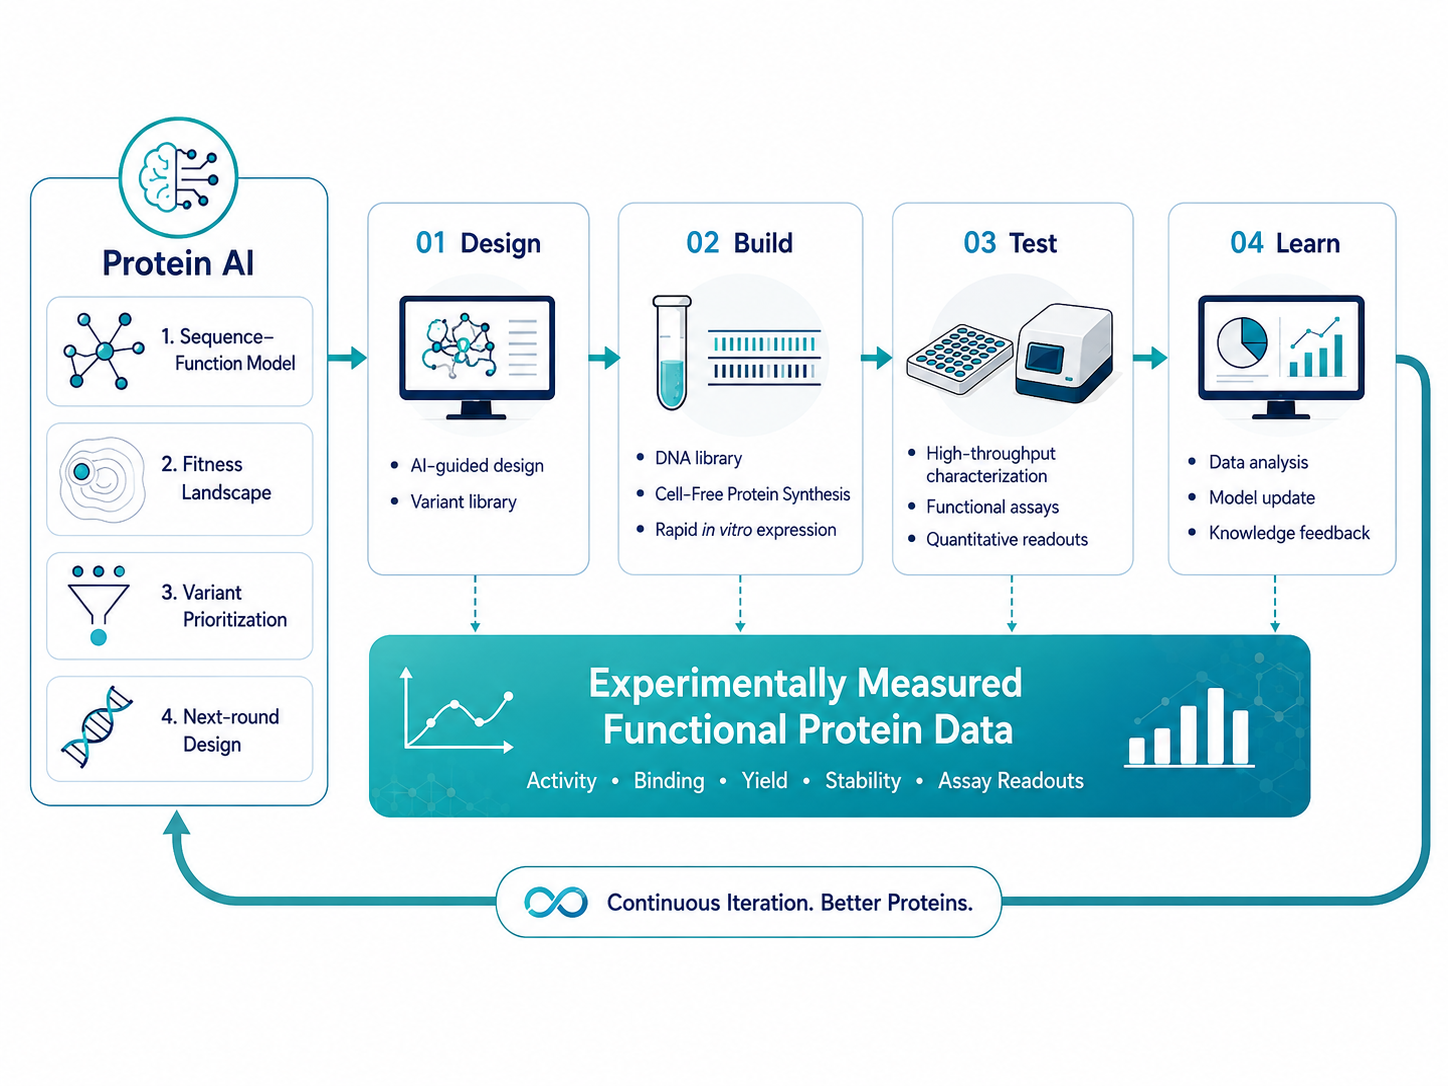
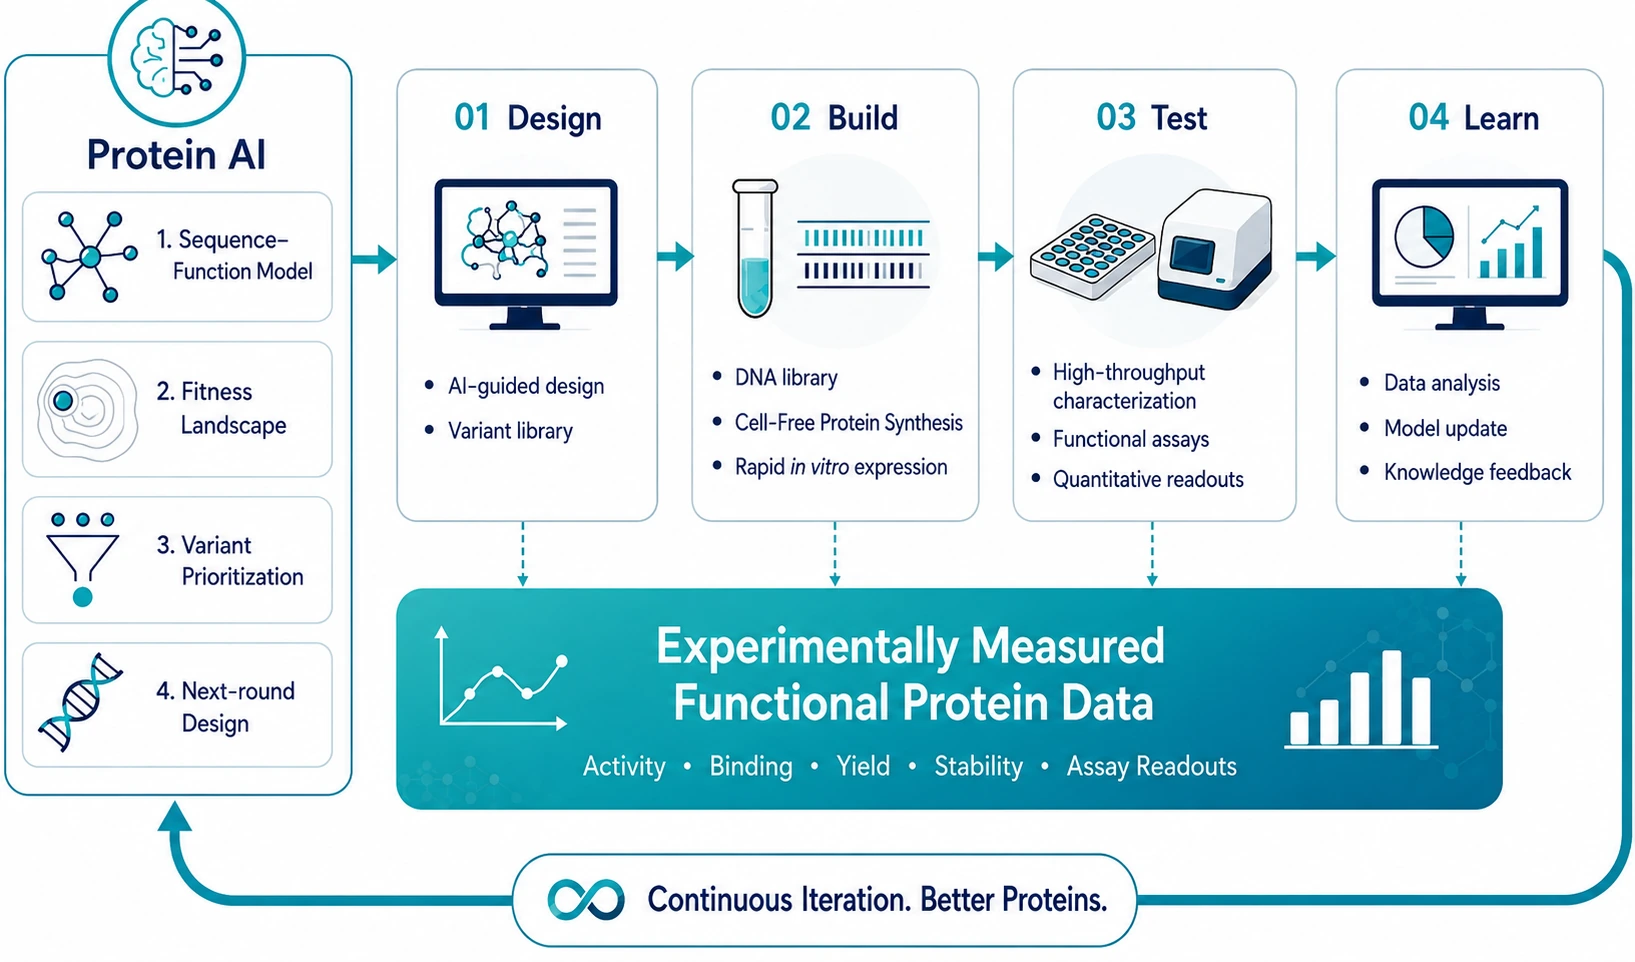
Add files via upload

diff --git a/index.html b/index.html
@@ -4,20 +4,33 @@
 <head>
 <meta charset="utf-8"/>
 <meta content="width=device-width,initial-scale=1,viewport-fit=cover" name="viewport"/>
-<title>ZerothBIO | Autonomous Protein Engineering System</title>
+<title>ZerothBIO | Autonomous Protein Engineering</title>
 <meta content="ZerothBIO builds experimentally measured functional protein data for protein AI through ProPEL, connecting protein design, cell-free production, functional measurement and learning." name="description"/>
 <meta content="index,follow,max-image-preview:large" name="robots"/>
 <meta content="strict-origin-when-cross-origin" name="referrer"/>
-<meta content="ZerothBIO — Building an AI-driven Protein Engineering System" property="og:title"/>
+<meta content="ZerothBIO — Building an Autonomous Protein Engineering System" property="og:title"/>
 <meta content="Experimentally measured functional protein data for protein AI, connected through ProPEL." property="og:description"/>
 <meta content="website" property="og:type"/>
-<meta content="https://www.zerothbio.com/" property="og:url"/><meta content="https://www.zerothbio.com/assets/propel-closed-loop-protein-engineering-system.png" property="og:image"/><meta content="1666" property="og:image:width"/><meta content="944" property="og:image:height"/><meta content="ProPEL closed-loop protein engineering system connecting design, build, test and learn around experimentally measured functional protein data." property="og:image:alt"/>
+<meta content="https://www.zerothbio.com/" property="og:url"/><meta content="https://www.zerothbio.com/assets/propel-closed-loop-protein-engineering-system.png" property="og:image"/><meta content="1635" property="og:image:width"/><meta content="962" property="og:image:height"/><meta content="ProPEL closed-loop protein engineering system connecting design, build, test and learn around experimentally measured functional protein data." property="og:image:alt"/>
 <meta content="#FFFFFF" name="theme-color"/>
 <meta content="light" name="color-scheme"/>
 <link href="https://www.zerothbio.com/" rel="canonical"/>
+<link as="image" href="assets/propel-closed-loop-protein-engineering-system.webp" rel="preload" type="image/webp"/>
 <link href="styles.css" rel="stylesheet"/>
 </head>
 <body>
+
+<!--
+  ZBIO-BRD-WEB-SITE-001
+  ZerothBIO Corporate Website Master v1.0 / Controlled Release — GitHub Pages Deployment Build
+  Deployment build: 2026-08-13
+  Copy authority: ZBIO-BRD-WEB-COPY-001 v1.0
+  Messaging authority: ZBIO-BRD-MSG-001 v1.0
+  Source authority: ZBIO-GOV-SRC-001 v1.5
+  Typography authority: ZBIO-BRD-TYPE-001 v1.0
+  Visual authority: ZBIO-BRD-001-PUB v1.0 + ZBIO-BRD-COLOR-001 v1.1
+-->
+
 <a class="skip-link" href="#main">Skip to content</a>
 <header class="site-header" id="top">
 <div class="container header-inner">
@@ -52,8 +65,8 @@
 <section aria-labelledby="hero-title" class="hero section">
 <div class="container hero-grid">
 <div class="hero-copy reveal">
-<p class="eyebrow" data-en="AUTONOMOUS PROTEIN ENGINEERING" data-ko="AUTONOMOUS PROTEIN ENGINEERING">AI-driven PROTEIN ENGINEERING</p>
-<h1 data-en="Building an AI-driven Protein Engineering System" data-ko="AI 자율 단백질 엔지니어링 시스템을 구축합니다" id="hero-title">Building an Autonomous Protein Engineering System</h1>
+<p class="eyebrow" data-en="AUTONOMOUS PROTEIN ENGINEERING" data-ko="AUTONOMOUS PROTEIN ENGINEERING">AUTONOMOUS PROTEIN ENGINEERING</p>
+<h1 data-en="Building an Autonomous Protein Engineering System" data-ko="자율 단백질 엔지니어링 시스템을 구축합니다" id="hero-title">Building an Autonomous Protein Engineering System</h1>
 <p class="hero-deck" data-en="ZerothBIO builds experimentally measured functional protein data for protein AI through ProPEL." data-ko="ZerothBIO는 자동화된 단백질 실험을 통해 측정된 기능 데이터를 생성하고, 이를 AI 학습과 단백질 최적화로 연결합니다.">ZerothBIO builds experimentally measured functional protein data for protein AI through ProPEL.</p>
 <div class="hero-actions">
 <a class="button" href="#propel"><span data-en="Explore ProPEL" data-ko="ProPEL 살펴보기">Explore ProPEL</span><span aria-hidden="true">↘</span></a>
@@ -62,42 +75,12 @@
 </div>
 <p class="tagline">Before the First, There’s Zeroth.</p>
 </div>
-<div aria-label="Compact ProPEL loop: Design, Build, Test and Learn centered on measured function" class="hero-system reveal">
+<div aria-label="ProPEL closed-loop protein engineering workflow" class="hero-system hero-system-image reveal">
 <div class="system-caption"><span class="mono">ProPEL</span><span>PROtein AI &amp; Precise Experimental Labs</span></div>
-<div class="system-stage">
-<div aria-hidden="true" class="system-loop">
-<svg aria-label="Closed-loop protein engineering system diagram" role="img" viewBox="0 0 520 420">
-<defs>
-<marker id="arrow" markerheight="8" markerunits="strokeWidth" markerwidth="8" orient="auto" refx="6" refy="3">
-<path d="M0,0 L0,6 L7,3 z" fill="#1ABBCF"></path>
-</marker>
-</defs>
-<path d="M125 120 C210 35 355 42 405 125" fill="none" stroke="#C2C2C2" stroke-width="1.4"></path>
-<path d="M410 138 C468 210 447 330 351 364" fill="none" stroke="#C2C2C2" stroke-width="1.4"></path>
-<path d="M332 370 C244 408 123 373 96 288" fill="none" stroke="#C2C2C2" stroke-width="1.4"></path>
-<path d="M92 270 C62 201 73 148 112 113" fill="none" stroke="#C2C2C2" stroke-width="1.4"></path>
-<path d="M124 118 C210 38 352 46 402 124" fill="none" marker-end="url(#arrow)" stroke="#1ABBCF" stroke-dasharray="4 8" stroke-width="2"></path>
-<circle cx="120" cy="114" fill="#09223E" r="7"></circle>
-<circle cx="408" cy="134" fill="#09223E" r="7"></circle>
-<circle cx="342" cy="368" fill="#09223E" r="7"></circle>
-<circle cx="94" cy="280" fill="#09223E" r="7"></circle>
-<g fill="#1ABBCF" opacity=".9">
-<circle cx="258" cy="78" r="3"></circle><circle cx="437" cy="238" r="3"></circle><circle cx="211" cy="390" r="3"></circle><circle cx="73" cy="201" r="3"></circle>
-</g>
-<g transform="translate(175,156)">
-<rect fill="#FFFFFF" height="108" rx="2" stroke="#09223E" stroke-width="1.2" width="170"></rect>
-<text fill="#128291" font-family="IBM Plex Mono, monospace" font-size="11" letter-spacing="1.4" x="18" y="31">MEASURED FUNCTION</text>
-<path d="M18 65 C36 48, 52 85, 70 62 S102 55, 118 70 S144 42, 154 58" fill="none" stroke="#1ABBCF" stroke-width="2"></path>
-<line stroke="#C2C2C2" stroke-width="1" x1="18" x2="152" y1="86" y2="86"></line>
-<circle cx="132" cy="48" fill="#09223E" r="4"></circle>
-</g>
-</svg>
-</div>
-<div class="stage-label label-design"><strong>01</strong><span>Design</span></div>
-<div class="stage-label label-build"><strong>02</strong><span>Build</span></div>
-<div class="stage-label label-test"><strong>03</strong><span>Test</span></div>
-<div class="stage-label label-learn"><strong>04</strong><span>Learn</span></div>
-</div>
+<picture class="hero-system-visual">
+<source srcset="assets/propel-closed-loop-protein-engineering-system.webp" type="image/webp"/>
+<img alt="ProPEL closed-loop protein engineering workflow connecting Protein AI with Design, Build, Test and Learn around experimentally measured functional protein data." decoding="async" fetchpriority="high" height="962" src="assets/propel-closed-loop-protein-engineering-system.png" width="1635"/>
+</picture>
 </div>
 </div>
 </section>
@@ -130,7 +113,7 @@
 <a aria-label="Open the ProPEL system overview at full resolution" class="propel-visual-link" href="assets/propel-closed-loop-protein-engineering-system.png" rel="noopener" target="_blank">
 <picture>
 <source srcset="assets/propel-closed-loop-protein-engineering-system.webp" type="image/webp"/>
-<img alt="ProPEL closed-loop protein engineering system: PROtein AI guides design, precise experimental labs build and test candidates, experimentally measured functional protein data feeds learning, and the results return to the next design round." decoding="async" height="944" loading="lazy" src="assets/propel-closed-loop-protein-engineering-system.png" width="1666"/>
+<img alt="ProPEL closed-loop protein engineering system: PROtein AI guides design, precise experimental labs build and test candidates, experimentally measured functional protein data feeds learning, and the results return to the next design round." decoding="async" height="962" loading="lazy" src="assets/propel-closed-loop-protein-engineering-system.png" width="1635"/>
 </picture>
 </a>
 <figcaption id="propel-visual-caption">
@@ -144,6 +127,8 @@
 <article><span class="workflow-no">03 · TEST</span><strong data-en="Measure functional outputs under defined conditions." data-ko="정의된 조건에서 기능 출력을 측정합니다.">Measure functional outputs under defined conditions.</strong></article>
 <article><span class="workflow-no">04 · LEARN</span><strong data-en="Return measured results to the next design decision." data-ko="측정 결과를 다음 설계 의사결정으로 환류합니다.">Return measured results to the next design decision.</strong></article>
 </div>
+
+<p class="qualifier reveal" data-en="‘Autonomous protein engineering’ describes the integrated operating architecture and closed-loop direction; it does not imply guaranteed optimization or zero-human operation." data-ko="‘Autonomous protein engineering’은 통합된 운영 아키텍처와 closed-loop 방향을 의미하며, 무조건적인 최적화 또는 완전 무인 운영을 의미하지 않습니다.">‘Autonomous protein engineering’ describes the integrated operating architecture and closed-loop direction; it does not imply guaranteed optimization or zero-human operation.</p>
 </div>
 </section>
 <section aria-labelledby="data-title" class="data-section section" id="data">
@@ -208,7 +193,7 @@
 <div class="container">
 <div class="section-intro wide reveal">
 <p class="eyebrow">COLLABORATION</p>
-<h2 data-en="Build better protein experiments together." data-ko="더 빠른 단백질 탐색 실험을 함께 설계합니다." id="collab-title">Build better protein experiments together.</h2>
+<h2 data-en="Build better protein experiments together." data-ko="더 나은 단백질 실험을 함께 설계합니다." id="collab-title">Build better protein experiments together.</h2>
 </div>
 <div class="collab-grid reveal">
 <article><span>01</span><h3>Protein Engineering</h3><p data-en="Discuss candidate generation, experimental evaluation and iterative protein engineering workflows." data-ko="후보 생성, 실험 평가와 반복적인 protein engineering workflow를 논의합니다.">Discuss candidate generation, experimental evaluation and iterative protein engineering workflows.</p></article>
@@ -234,7 +219,7 @@
 <div class="container contact-grid">
 <div class="reveal">
 <p class="eyebrow">CONTACT</p>
-<h2 data-en="Start with the experiment." data-ko="실험에서 확신으로." id="contact-title">Start with the experiment.</h2>
+<h2 data-en="Start with the experiment." data-ko="실험에서 시작합니다." id="contact-title">Start with the experiment.</h2>
 <p data-en="Tell us what you are trying to build, measure, or evaluate." data-ko="무엇을 만들고, 측정하고, 평가하려는지 알려주세요.">Tell us what you are trying to build, measure, or evaluate.</p>
 <a class="button button-on-dark" href="mailto:zerothbio@gmail.com"><span data-en="Contact ZerothBIO" data-ko="ZerothBIO 문의하기">Contact ZerothBIO</span><span aria-hidden="true">↗</span></a>
 </div>
@@ -251,7 +236,7 @@
 <footer class="site-footer">
 <div class="container footer-inner">
 <div><img alt="ZerothBIO" src="assets/zerothbio-logo-horizontal.png"/><p>Before the First, There’s Zeroth.</p></div>
-<div class="footer-meta"><span>© 2026 ZerothBIO Inc.</span></div>
+<div class="footer-meta"><span>© 2026 ZerothBIO Inc.</span><span>For Research Use Only where applicable.</span></div>
 </div>
 </footer>
 <script src="script.js"></script>

diff --git a/styles.css b/styles.css
@@ -133,3 +133,10 @@ p{font-size:16px}
 .workflow-summary strong{display:block;color:#fff;font-size:13px;line-height:1.55;font-weight:520;margin-top:14px}
 @media(max-width:900px){.workflow-summary{grid-template-columns:1fr 1fr}.workflow-summary article:nth-child(2){border-right:0}.workflow-summary article:nth-child(-n+2){border-bottom:1px solid var(--navy-600)}}
 @media(max-width:760px){.propel-visual{margin-top:42px}.propel-visual figcaption{grid-template-columns:1fr;gap:8px}.propel-visual figcaption .mono{white-space:normal}.workflow-summary{grid-template-columns:1fr}.workflow-summary article{border-right:0!important;border-bottom:1px solid var(--navy-600)!important;min-height:0}.workflow-summary article:last-child{border-bottom:0!important}.propel-visual-link::after{display:none}}
+
+/* GitHub Pages deployment build — 2026-08-13
+   Latest cropped ProPEL DBTL master asset applied to the hero. */
+.hero-system-image{padding:14px;overflow:hidden}
+.hero-system-visual{display:block;margin-top:14px;background:#fff}
+.hero-system-visual img{display:block;width:100%;height:auto}
+@media(max-width:760px){.hero-system-image{padding:10px}.hero-system-visual{margin-top:10px}}

diff --git a/README.md b/README.md
@@ -1,2 +1,36 @@
-# zerothbio
-zerothbio
+# ZerothBIO Corporate Website — GitHub Pages Deployment
+
+**Document:** ZBIO-BRD-WEB-SITE-001  
+**Release:** v1.0 / Controlled Release / External  
+**Deployment build:** 2026-08-13  
+**Target:** GitHub Pages static hosting
+
+## Deploy in GitHub
+
+1. Create or open the GitHub repository that will host the website.
+2. Upload **all files and folders in this package to the repository root**. `index.html` must stay at the root.
+3. Commit/push to the `main` branch.
+4. In GitHub: **Settings → Pages → Build and deployment → Source: Deploy from a branch**.
+5. Select **Branch: `main` / Folder: `/ (root)`**, then Save.
+6. Wait for GitHub Pages to publish the site.
+
+The package is intentionally dependency-free: plain HTML, CSS, JavaScript, images, `robots.txt`, and `sitemap.xml`.
+
+## Custom domain (optional)
+
+The production metadata is set to `https://www.zerothbio.com/`. If GitHub Pages will serve that domain, configure DNS and the GitHub Pages **Custom domain** setting first, then rename `CNAME.example` to `CNAME`.
+
+If this repository is only a GitHub Pages preview, leave `CNAME.example` unchanged.
+
+## Key files
+
+- `index.html` — website entry point
+- `styles.css` — responsive styles
+- `script.js` — language toggle, navigation and reveal interactions
+- `assets/zerothbio-logo-horizontal.png` — approved horizontal logo asset
+- `assets/propel-closed-loop-protein-engineering-system.webp` — current cropped ProPEL DBTL web asset
+- `.nojekyll` — prevents Jekyll processing
+
+## Controlled content note
+
+External product messaging remains limited to the current commercial baseline used by the controlled website. Do not introduce unapproved product configurations, performance claims, or roadmap content directly in the repository without the applicable ZerothBIO source/claim review.
